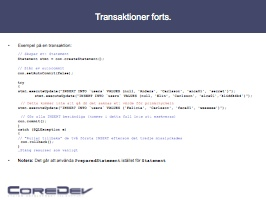
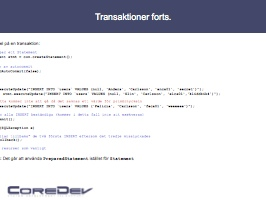
Added exercise2 and code along

Changed region(s): [[0.0, 0.33, 0.9323, 0.81], [0.0, 0.21, 0.391, 0.3]]

diff --git a/lectures/week2/day2_jdbc_part2_security/code_along/TestTransaction.java b/lectures/week2/day2_jdbc_part2_security/code_along/TestTransaction.java
@@ -1,0 +1,60 @@
+package floggit;
+
+import java.sql.Connection;
+import java.sql.DriverManager;
+import java.sql.ResultSet;
+import java.sql.SQLException;
+import java.sql.Statement;
+
+public class TransactionTest {
+	static final String JDBC_DRIVER = "com.mysql.jdbc.Driver";
+	static final String DB_URL = "jdbc:mysql://localhost/floggit";
+	static final String USER = "root";
+	static final String PASS = "";
+	
+	public static void main(String[] args) {
+		Connection conn = null;
+		Statement stmt = null;
+		ResultSet rs = null;
+		int departmentId = 0;
+		try {
+			Class.forName(JDBC_DRIVER);
+			conn = DriverManager.getConnection(DB_URL, USER, PASS);
+			conn.setAutoCommit(false); // The start of a transaction
+			stmt = conn.createStatement();
+			try{
+				stmt.executeUpdate("INSERT INTO departments (dept_name) VALUES('Caretakers');", Statement.RETURN_GENERATED_KEYS);
+				rs = stmt.getGeneratedKeys();
+				if(rs.next()){
+					departmentId =  rs.getInt(1);
+				}
+				System.out.print(departmentId);
+				conn.commit();
+			} catch(SQLException e){
+				conn.rollback();
+			}
+			
+		} catch (ClassNotFoundException e) {
+			// TODO Auto-generated catch block
+			e.printStackTrace();
+		} catch (SQLException e) {
+			// TODO Auto-generated catch block
+			e.printStackTrace();
+		} finally {
+			try {
+				if(rs != null){
+					rs.close();
+				}
+				if(stmt != null){
+					stmt.close();
+				}
+				if(conn != null){
+					conn.close();
+				}
+			} catch (SQLException e) {
+				// TODO Auto-generated catch block
+				e.printStackTrace();
+			}
+		}
+	}
+}
